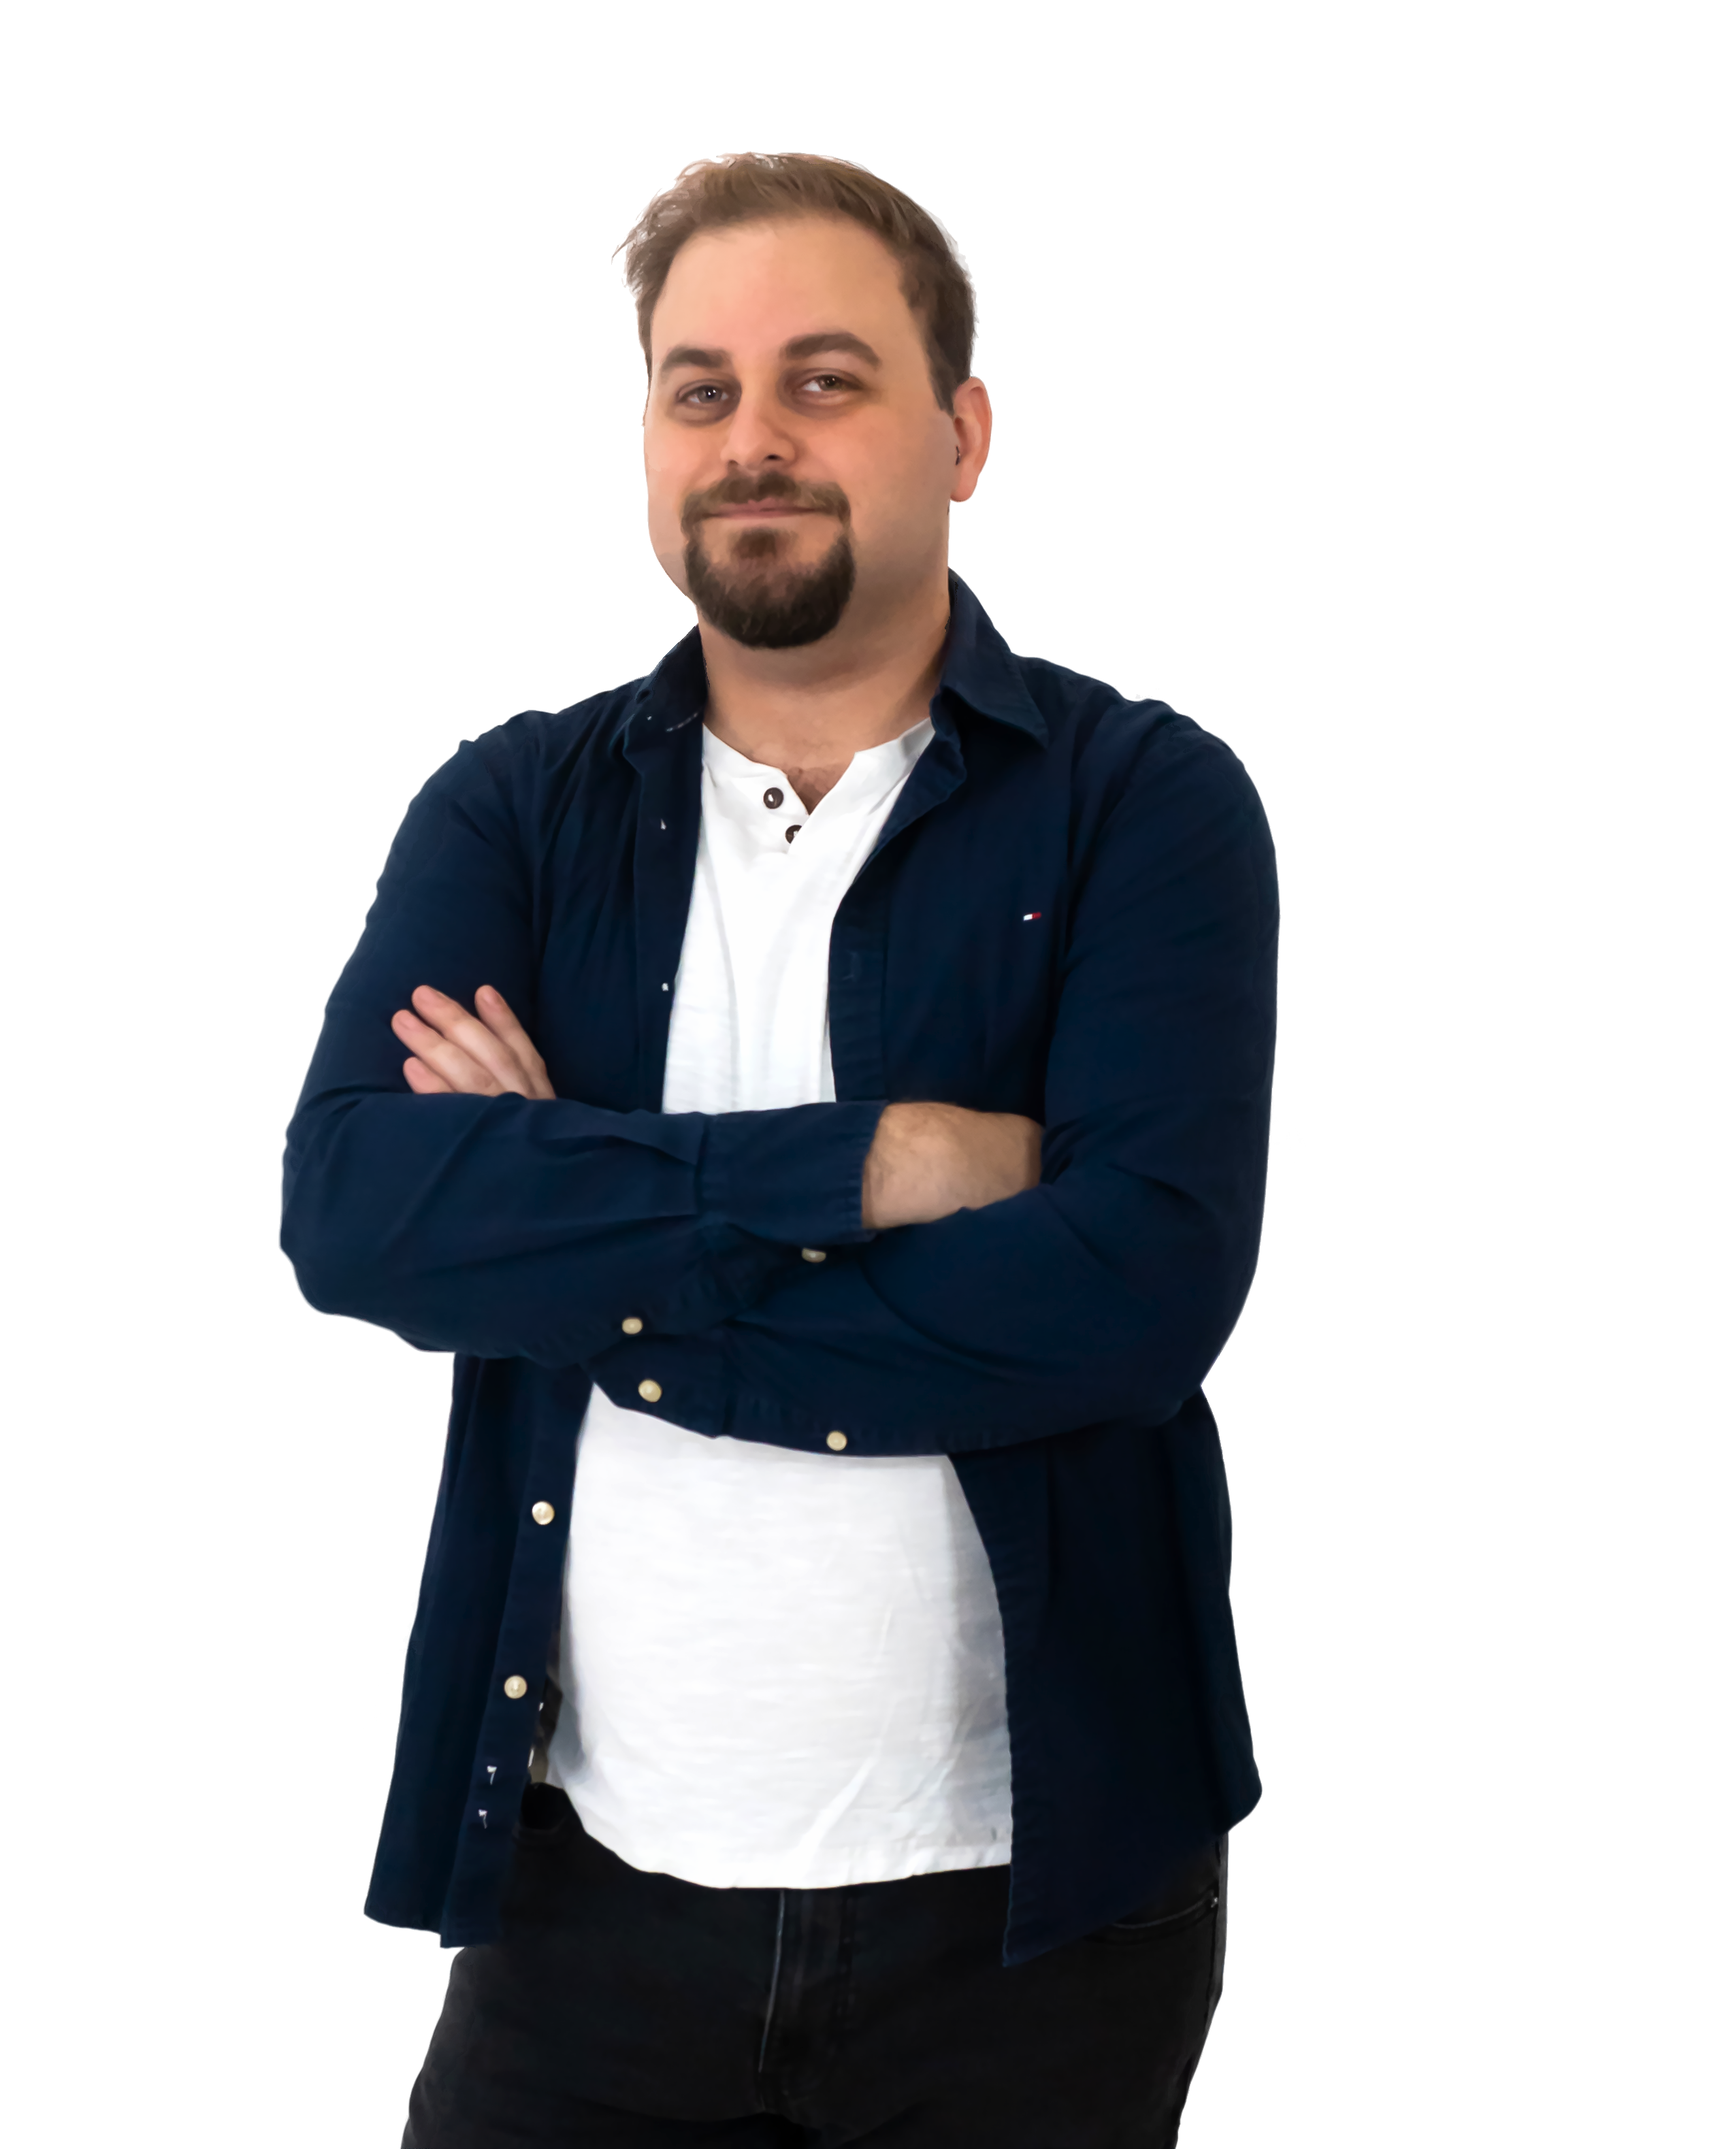
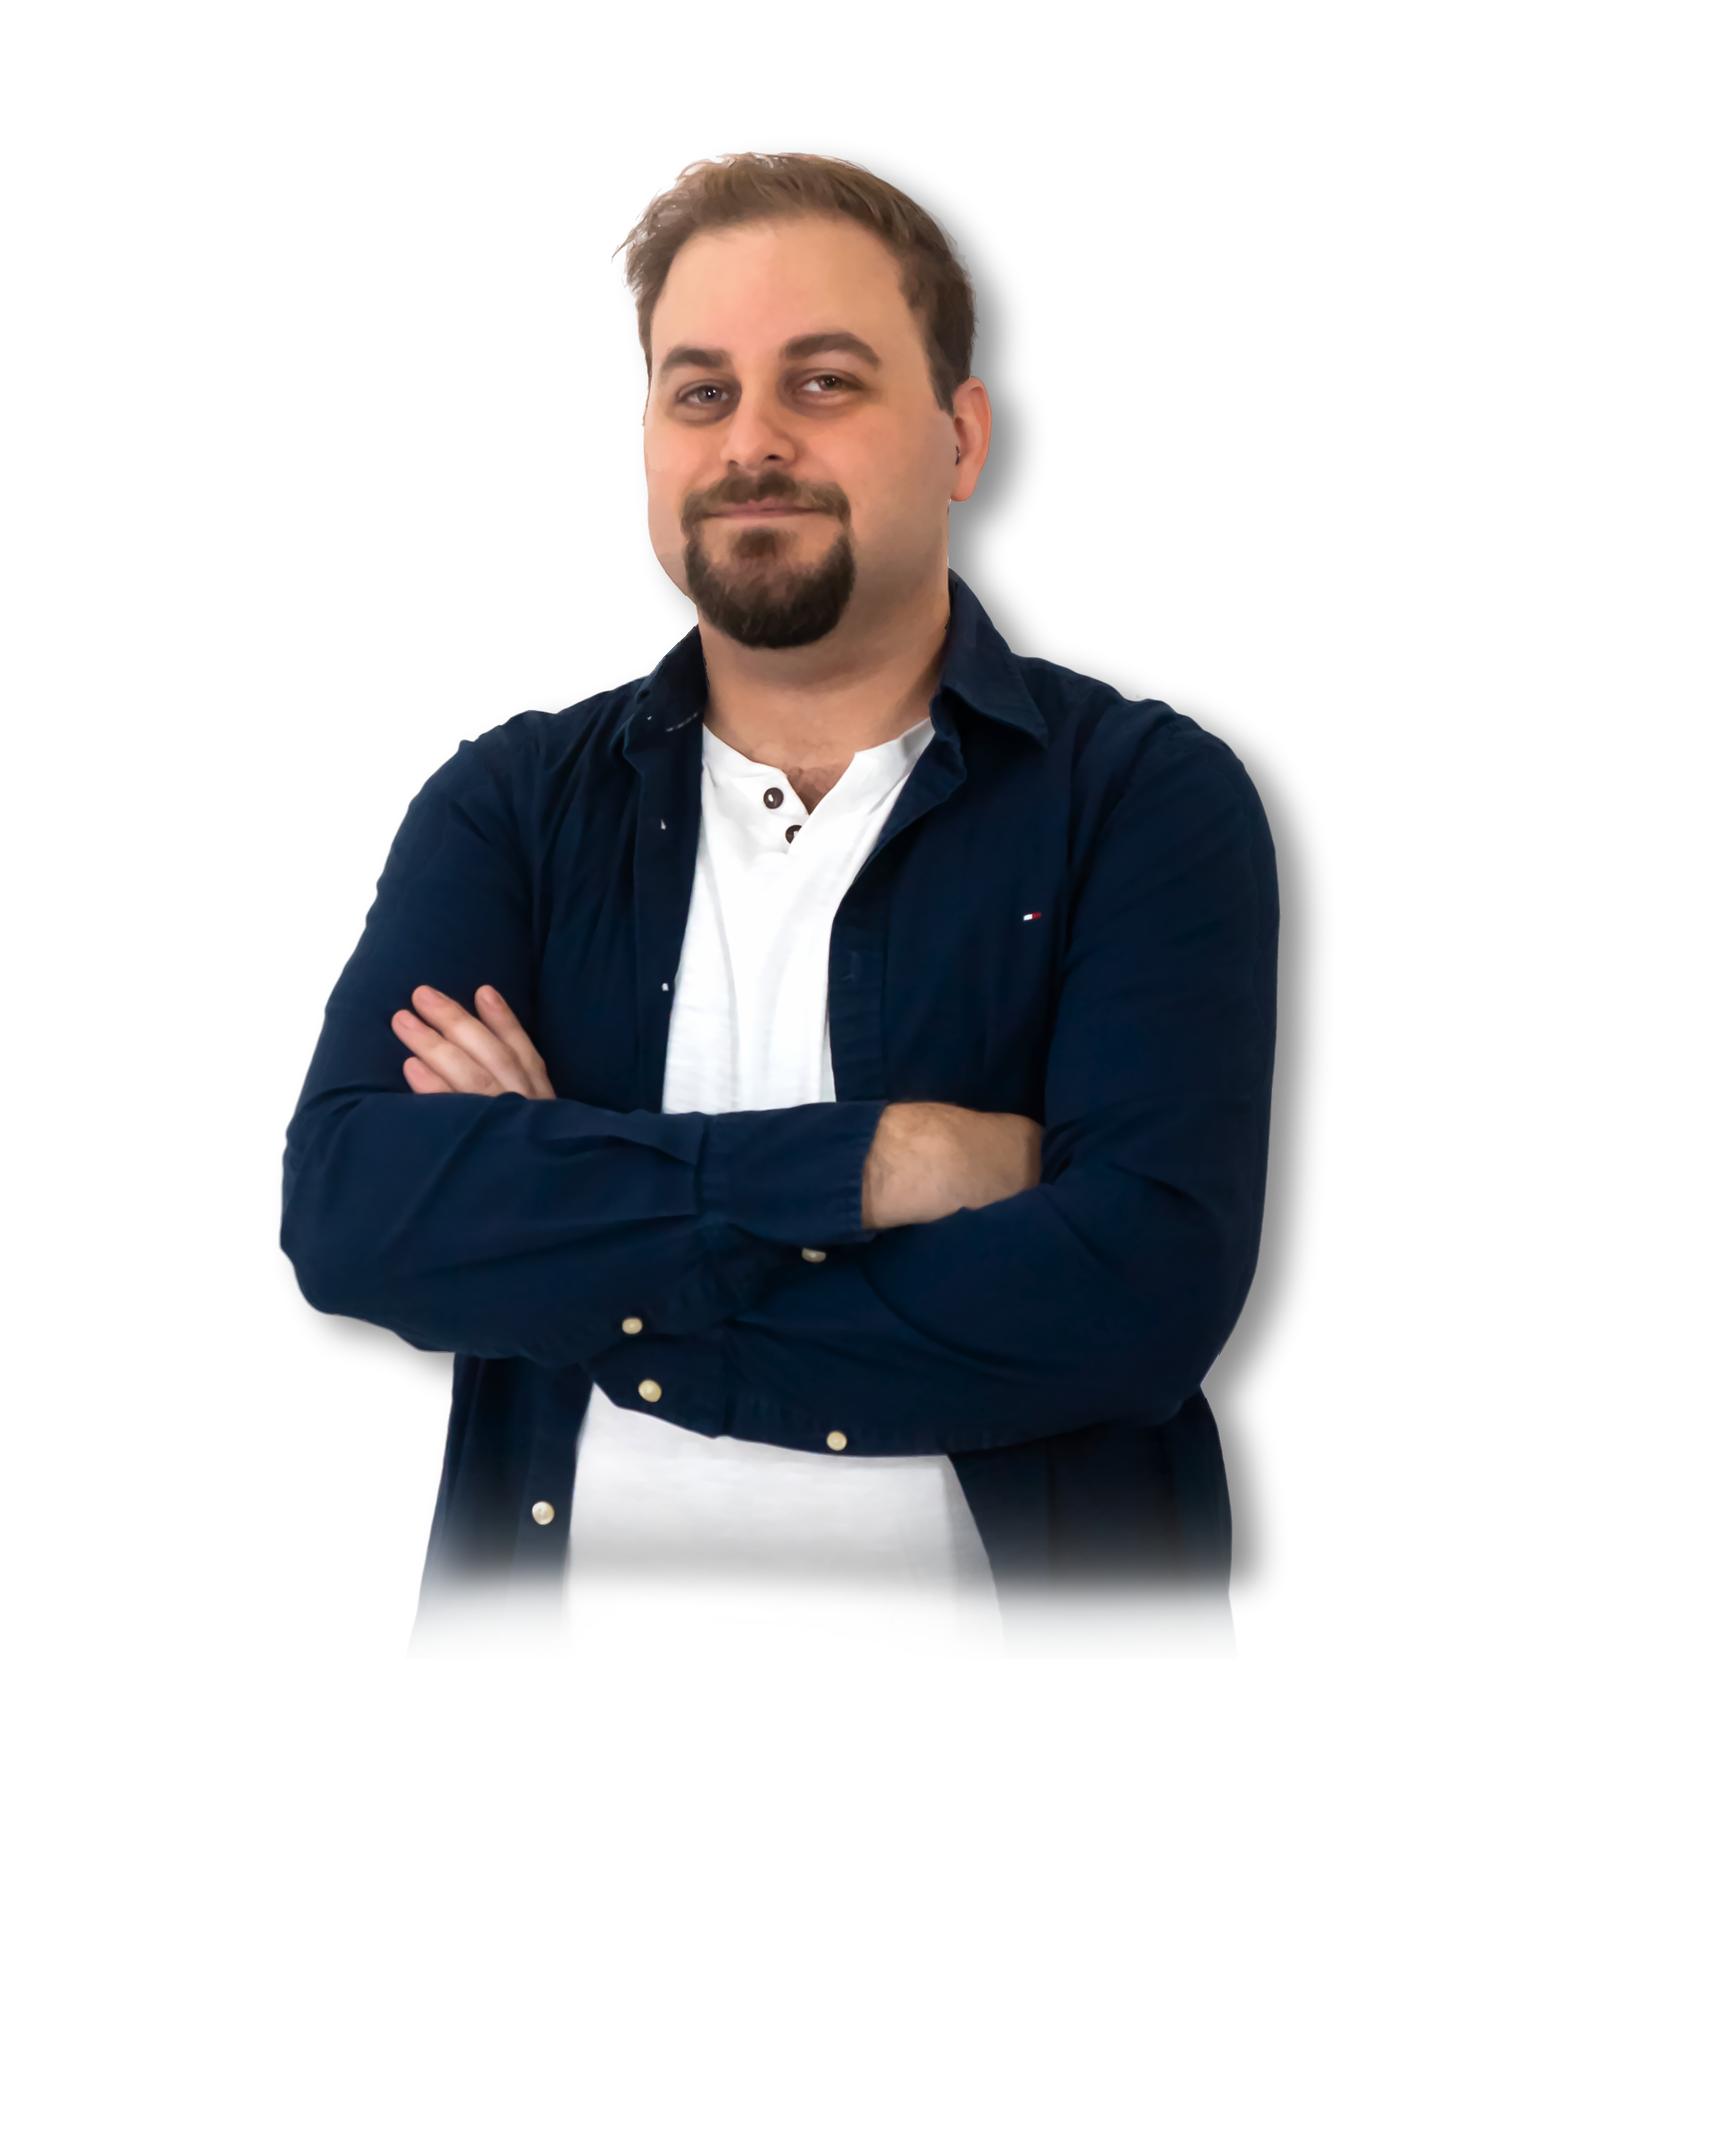
Update about image styling in CSS: reset border-radius to 0 and adjust drop-shadow filter for improved visual effect. Replace profile picture with a new version.

diff --git a/css/style.css b/css/style.css
@@ -411,8 +411,8 @@ nav {
 }
 
 .about-image img {
-    border-radius: 50%;
-    filter: drop-shadow(0 4px 8px rgba(0, 0, 0, 0.5));
+    border-radius: 0;
+    filter: drop-shadow(0 6px 12px rgba(0, 0, 0, 0.3));
 }
 
 .about-text {
